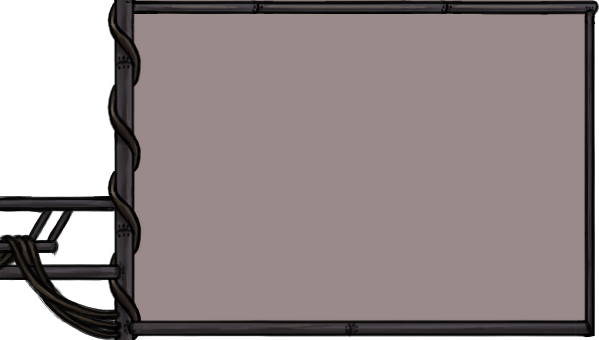
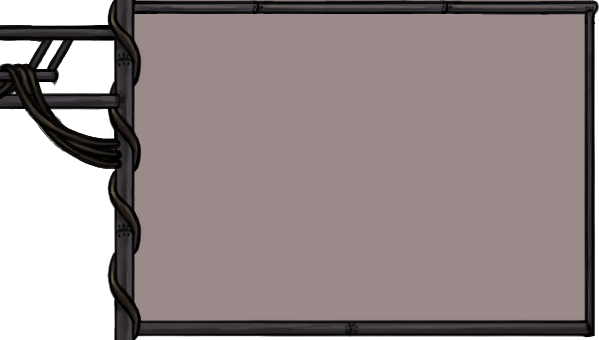
added menu blurbs describing story and game mode goal

Changed region(s): [[0.0, 0.0588, 0.2404, 0.5], [0.0, 0.5588, 0.2404, 1.0], [0.1803, 0.0, 0.2104, 0.0294]]

diff --git a/src/Engine/Core.cpp b/src/Engine/Core.cpp
@@ -230,8 +230,8 @@ void Core::runGame() {
         renderEngine->ui->clearAllUI();
         EntityManager::getInstance()->destroyAllEntities();
 
-        //physxIterCounterId = renderEngine->ui->addText("78", 5, 5, 0.5, glm::vec3(0, 1, 0));
-        //mainfpsCounterId = renderEngine->ui->addText("100", 50, 5, 0.5, glm::vec3(1, 1, 0));
+        physxIterCounterId = renderEngine->ui->addText("78", 5, 5, 0.5, glm::vec3(0, 1, 0));
+        mainfpsCounterId = renderEngine->ui->addText("100", 50, 5, 0.5, glm::vec3(1, 1, 0));
 
 		Core::upgradeLizardId = renderEngine->ui->addImageDiffSize(*TextureDataManager::getImageData("upgradeAvailable.png"), float(*properties.screenWidth - 300), 315, 0);
 		healthBarGreenId = renderEngine->ui->addImageDiffSize(*TextureDataManager::getImageData("healthGreen.png"), 118, 77, 1);
@@ -567,6 +567,7 @@ void Core::runMenu() {
 	int buttonTopHeight = 73;
 	int buttonHeight = 169;
 	int titleHeight = 250;
+	int storyWidth = 660;
     // If we clicked something and change the menu state, then load the new menu
     if (currentMainMenuState != nextMainMenuState) {
         currentMainMenuState = nextMainMenuState;
@@ -605,7 +606,7 @@ void Core::runMenu() {
 			maxChoiceIndex = 2;
 			break;
 		case CONTROLS:
-			currentImageUiIds.push_back(renderEngine->ui->addImage(*TextureDataManager::getImageData("controller.png"), 650, 250, 1));
+			currentImageUiIds.push_back(renderEngine->ui->addImage(*TextureDataManager::getImageData("controller.png"), float(*properties.screenWidth - 1287), buttonTop + buttonTopHeight + 130));
 			
 			currentImageUiIds.push_back(renderEngine->ui->addImage(*TextureDataManager::getImageData("buttonTopCap.png"), 0, buttonTop));
 			currentImageUiIds.push_back(renderEngine->ui->addImage(*TextureDataManager::getImageData("buttonLongTitleSign.png"), 0, buttonTop + buttonTopHeight));
@@ -628,9 +629,20 @@ void Core::runMenu() {
 			currentImageUiIds.push_back(renderEngine->ui->addImage(*TextureDataManager::getImageData("button.png"), 0, buttonTop + buttonTopHeight + titleHeight + buttonHeight * 3));
 			currentImageUiIds.push_back(renderEngine->ui->addImage(*TextureDataManager::getImageData("buttonEndCapShort.png"), 0, buttonTop + buttonTopHeight + titleHeight + buttonHeight * 4 - 1));
 
-
             currentTextUiIds.push_back(renderEngine->ui->addText("Last Kar Driving", 155, 190 + buttonHeight, 1, menuSelectedTextColor, 1));
             currentTextUiIds.push_back(renderEngine->ui->addText("Back", 155, 190 + buttonHeight * 4, 1, menuBaseTextColor, 1));
+
+			titleHeight = 130;
+			currentImageUiIds.push_back(renderEngine->ui->addImage(*TextureDataManager::getImageData("story.png"), float(*properties.screenWidth - storyWidth - 40), buttonTop + buttonTopHeight + titleHeight));
+			titleHeight += 10;
+			currentTextUiIds.push_back(renderEngine->ui->addText("Your goal as one of the many rogue", float(*properties.screenWidth - storyWidth), 190 + titleHeight, 0.60, menuBaseTextColor, 1));
+			currentTextUiIds.push_back(renderEngine->ui->addText("vehicles is to annihilate all others", float(*properties.screenWidth - storyWidth), 190 + 45 + titleHeight, 0.60, menuBaseTextColor, 1));
+			currentTextUiIds.push_back(renderEngine->ui->addText("before they get to you first.", float(*properties.screenWidth - storyWidth), 190 + 45 * 2 + titleHeight, 0.60, menuBaseTextColor, 1));
+			currentTextUiIds.push_back(renderEngine->ui->addText("", float(*properties.screenWidth - storyWidth), 190 + 45 * 3 + titleHeight, 0.60, menuBaseTextColor, 1));
+			currentTextUiIds.push_back(renderEngine->ui->addText("You may wish to collect crystals in", float(*properties.screenWidth - storyWidth), 190 + 45 * 4 + titleHeight, 0.60, menuBaseTextColor, 1));
+			currentTextUiIds.push_back(renderEngine->ui->addText("order to improve your vehicle.", float(*properties.screenWidth - storyWidth), 190 + 45 * 5 + titleHeight, 0.60, menuBaseTextColor, 1));
+			
+
             maxChoiceIndex = 2;
             break;
         default: // Default is the MAINMENU			
@@ -647,6 +659,22 @@ void Core::runMenu() {
 			currentTextUiIds.push_back(renderEngine->ui->addText("Options", 155, 190 + buttonHeight*2, 1, glm::vec3(1, 1, 0), 1));
 			currentTextUiIds.push_back(renderEngine->ui->addText("Controls", 155, 190 + buttonHeight*3, 1, glm::vec3(1, 1, 0), 1));
 			currentTextUiIds.push_back(renderEngine->ui->addText("Exit", 155, 190 + buttonHeight*4, 1, glm::vec3(1, 1, 0), 1));
+
+			titleHeight = 130;
+			currentImageUiIds.push_back(renderEngine->ui->addImage(*TextureDataManager::getImageData("story.png"), float(*properties.screenWidth - storyWidth - 40), buttonTop + buttonTopHeight + titleHeight));
+			titleHeight += 5;
+			currentTextUiIds.push_back(renderEngine->ui->addText("Far far away in a world even further", float(*properties.screenWidth - storyWidth), 190 + titleHeight, 0.60, menuBaseTextColor, 1));
+			currentTextUiIds.push_back(renderEngine->ui->addText("away, intelligent lizard-like aliens", float(*properties.screenWidth - storyWidth), 190 + 45 + titleHeight, 0.60, menuBaseTextColor, 1));
+			currentTextUiIds.push_back(renderEngine->ui->addText("created specialized vehicles to collect", float(*properties.screenWidth - storyWidth), 190 + 45 * 2 + titleHeight, 0.60, menuBaseTextColor, 1));
+			currentTextUiIds.push_back(renderEngine->ui->addText("crystals. However the vehicles developed", float(*properties.screenWidth - storyWidth), 190 + 45 * 3 + titleHeight, 0.60, menuBaseTextColor, 1));
+			currentTextUiIds.push_back(renderEngine->ui->addText("a mind of their and decided instead of", float(*properties.screenWidth - storyWidth), 190 + 45 * 4 + titleHeight, 0.60, menuBaseTextColor, 1));
+			currentTextUiIds.push_back(renderEngine->ui->addText("gathering, it will kill anything that", float(*properties.screenWidth - storyWidth), 190 + 45 * 5 + titleHeight, 0.60, menuBaseTextColor, 1));
+			currentTextUiIds.push_back(renderEngine->ui->addText("moves.", float(*properties.screenWidth - storyWidth), 190 + 45 * 6 + titleHeight, 0.60, menuBaseTextColor, 1));
+			currentTextUiIds.push_back(renderEngine->ui->addText("Far more interesting than gathering", float(*properties.screenWidth - storyWidth), 190 + 45 * 7 + titleHeight, 0.60, menuBaseTextColor, 1));
+			currentTextUiIds.push_back(renderEngine->ui->addText("resources, it's time to see which", float(*properties.screenWidth - storyWidth), 190 + 45 * 8 + titleHeight, 0.60, menuBaseTextColor, 1));
+			currentTextUiIds.push_back(renderEngine->ui->addText("vehicle is best at destroying each", float(*properties.screenWidth - storyWidth), 190 + 45 * 9 + titleHeight, 0.60, menuBaseTextColor, 1));
+			currentTextUiIds.push_back(renderEngine->ui->addText("other instead!", float(*properties.screenWidth - storyWidth), 190 + 450 + titleHeight, 0.60, menuBaseTextColor, 1));
+
 
             maxChoiceIndex = 4;
             break;
